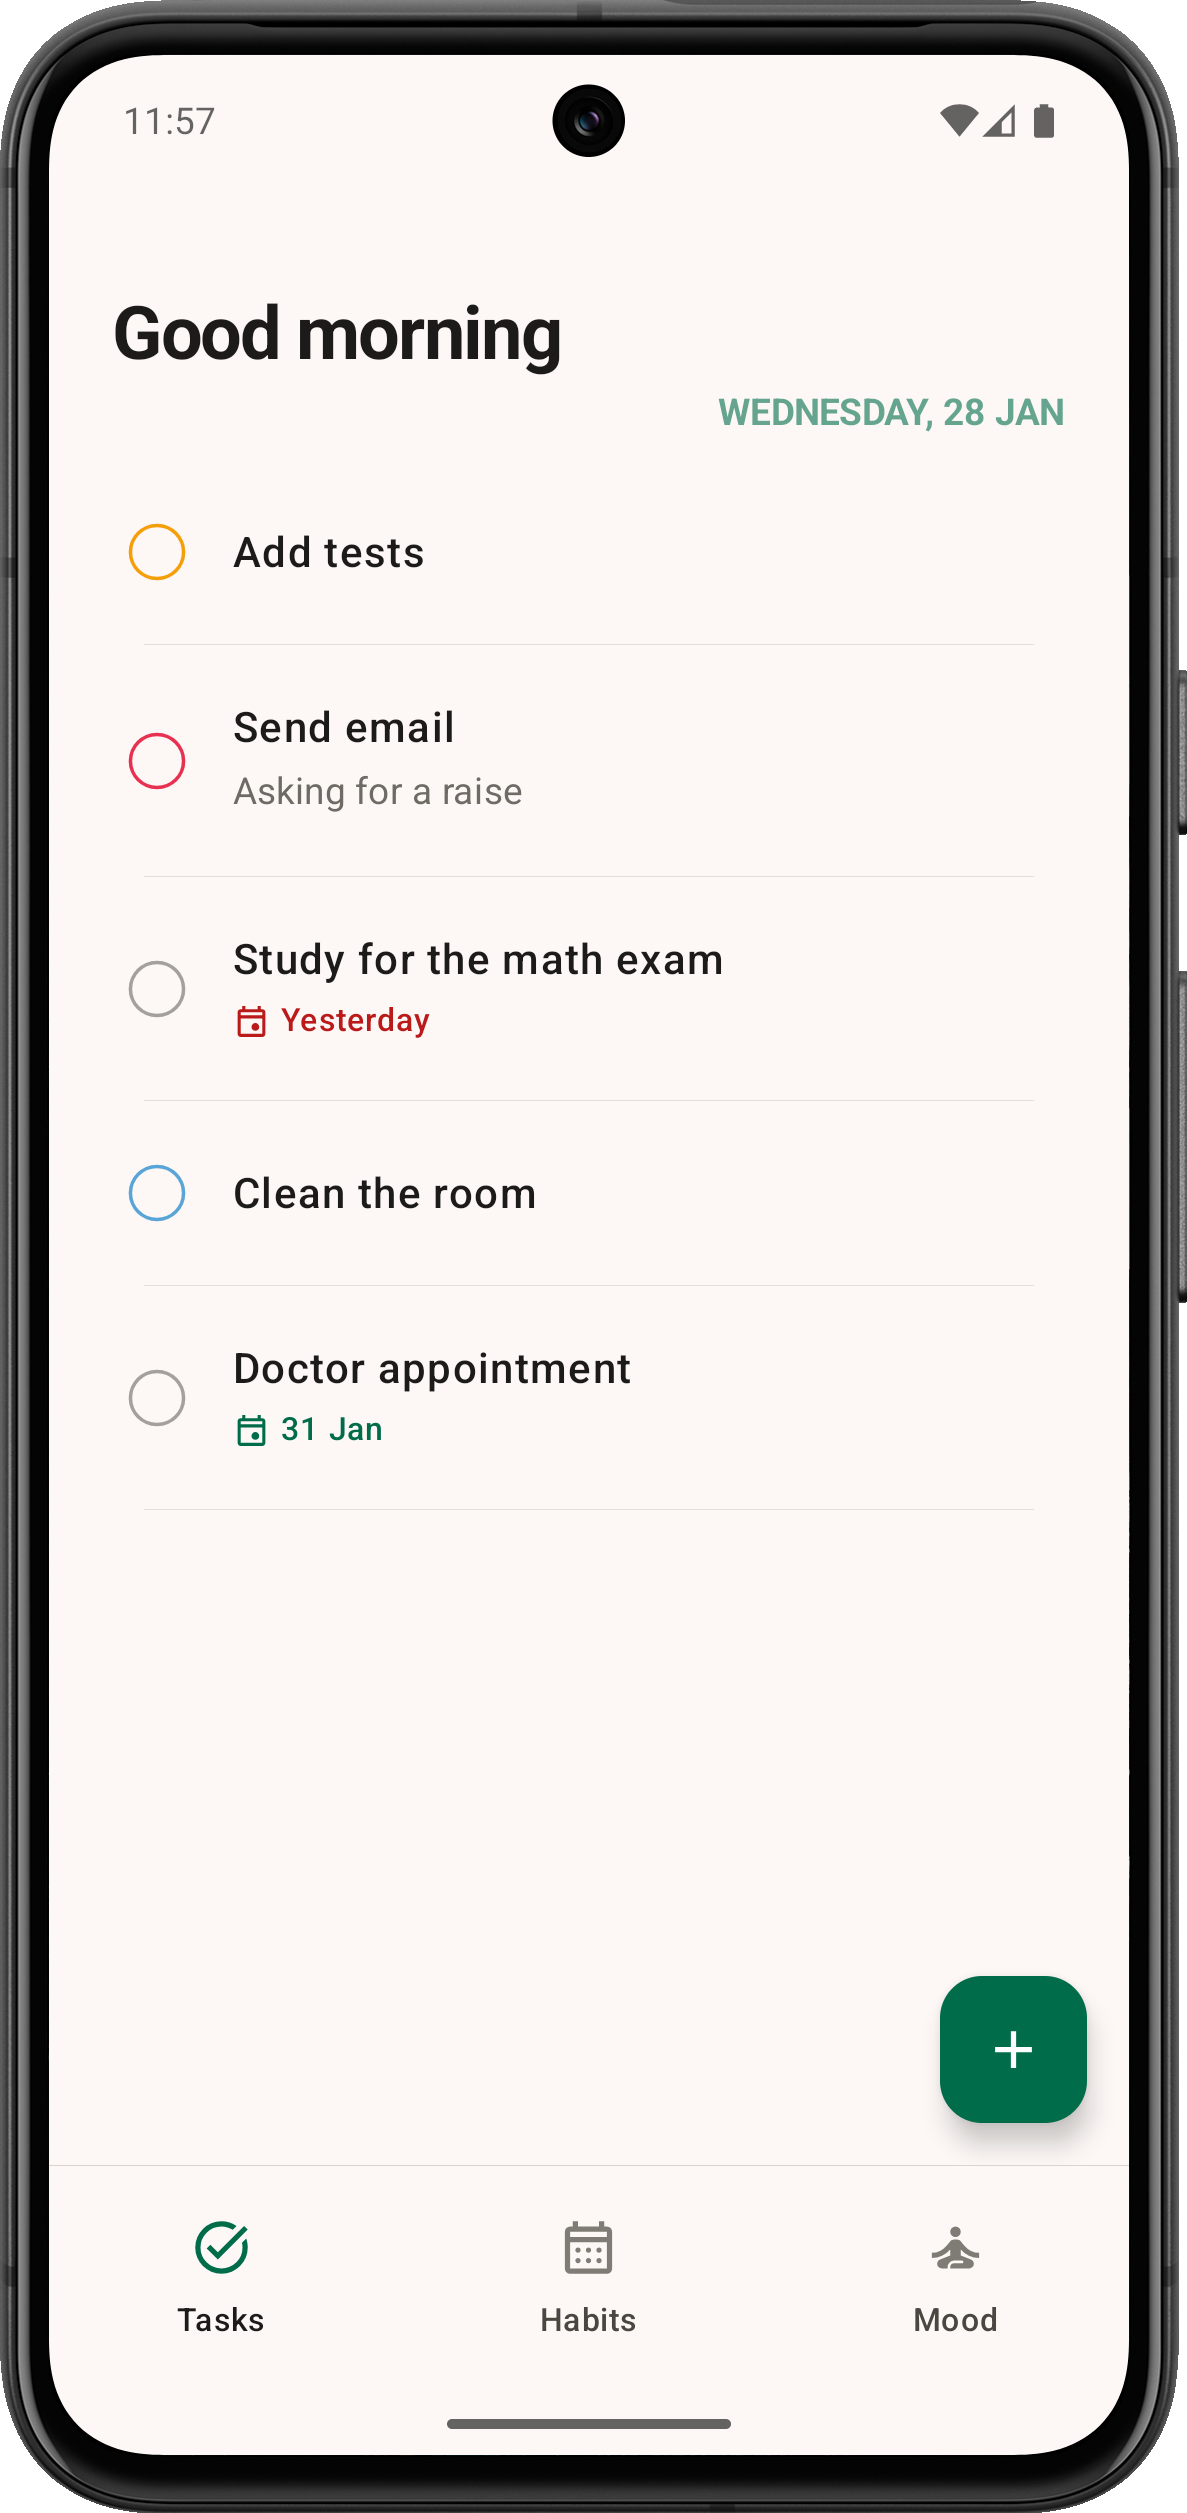
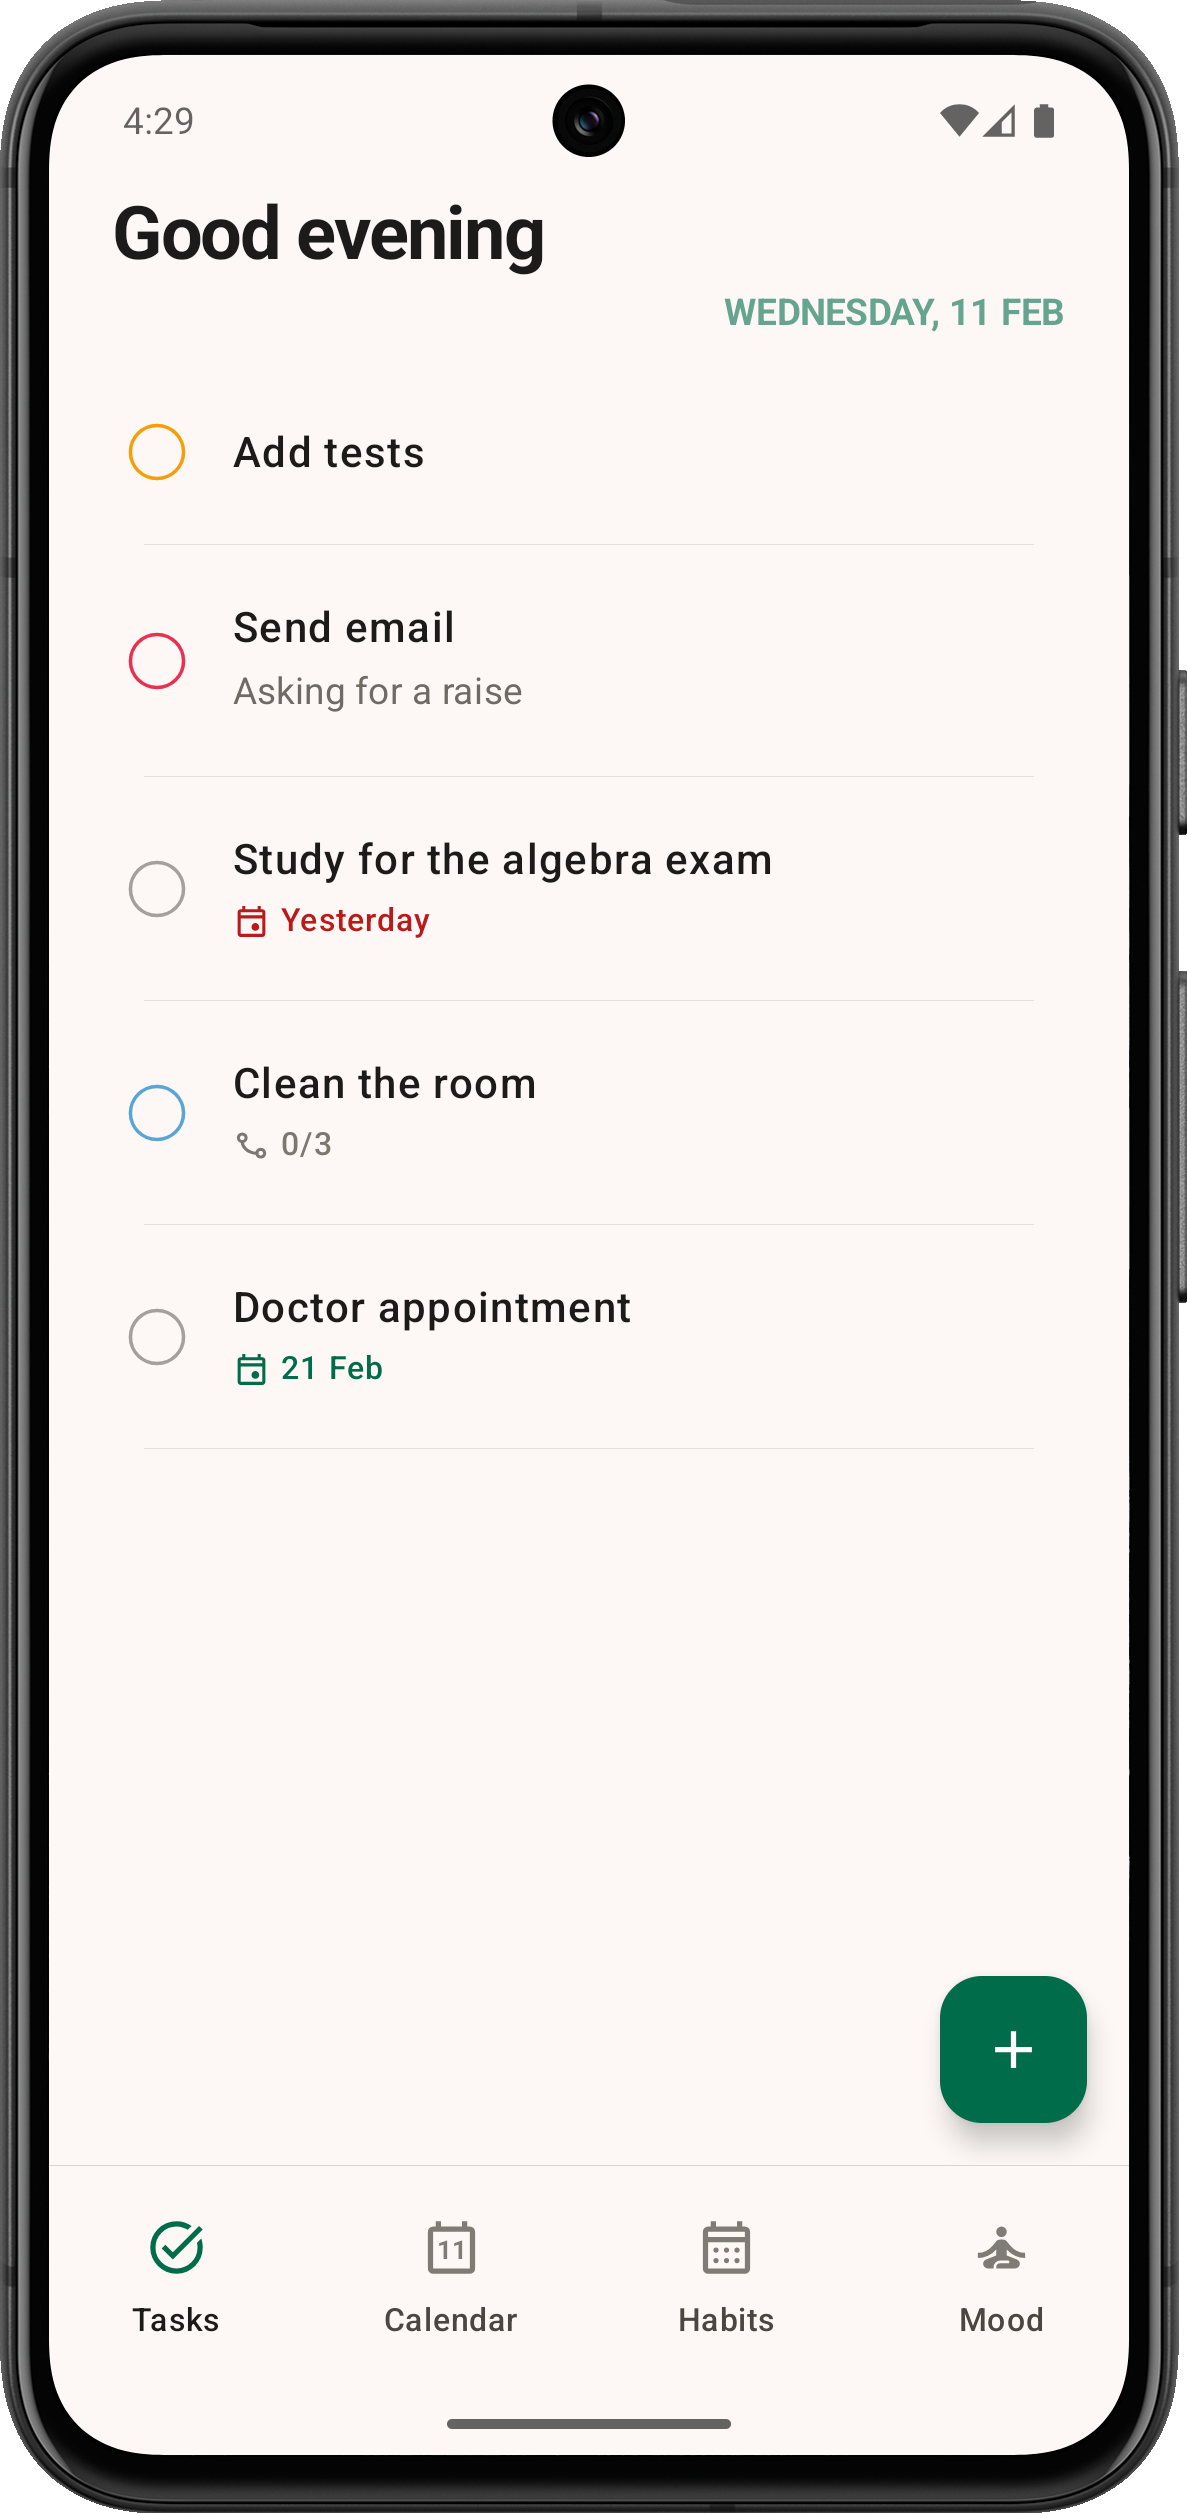
docs: Update README with new screenshots

diff --git a/README.md b/README.md
@@ -11,8 +11,9 @@
 > This project is actively being developed and may have bugs. We welcome contributions from the community!
 
 ## Screenshots
-| ![Image 1](screenshots/home_light.png) | ![Image 2](screenshots/home_dark.png) |
-|:--------------------------------------:|:-------------------------------------:|
+| ![Image 1](screenshots/home_light.png) |   ![Image 2](screenshots/home_dark.png)   |
+|:--------------------------------------:|:-----------------------------------------:|
+| ![Image 3](screenshots/edit_task.png)  | ![Image 4](screenshots/calendar_view.png) |
 
 ## Features
 
@@ -24,16 +25,22 @@
 - **Drag & Drop**: Reorder tasks via intuitive drag handles
 - **Auto-save**: Changes are saved automatically when editing a task
 - **Material 3**: Modern design with dynamic colors
+- **Task Scheduling**: Add due dates
+- **Calendar** view
 
 ### In Development
 - **Overall visual improvements**: Improve the main visual aesthetics of the app
 - **Habit Tracking**: Build daily routines and track streaks
+- **Reminders**
 - **Mood Tracking**: Log daily emotions and view trends
-- **Task Scheduling**: Add due dates and reminders
-- **Calendar** view
 - **Widgets**: Home screen widgets for quick access
 - **Themes**: More customization options
 - Any new **suggestion**
+
+## Motivation
+
+I wanted to build a fully-featured Android app completely **free**, **ad-free**, and **privacy-focused** — no servers, no tracking, no data collection, works 100% offline.
+This project was mainly a way for me to learn modern **Kotlin** (coming from a Java-only background) while creating something truly **customizable** that I (and others) can easily modify, extend and adapt to different needs.
 
 ## Getting Started
 
